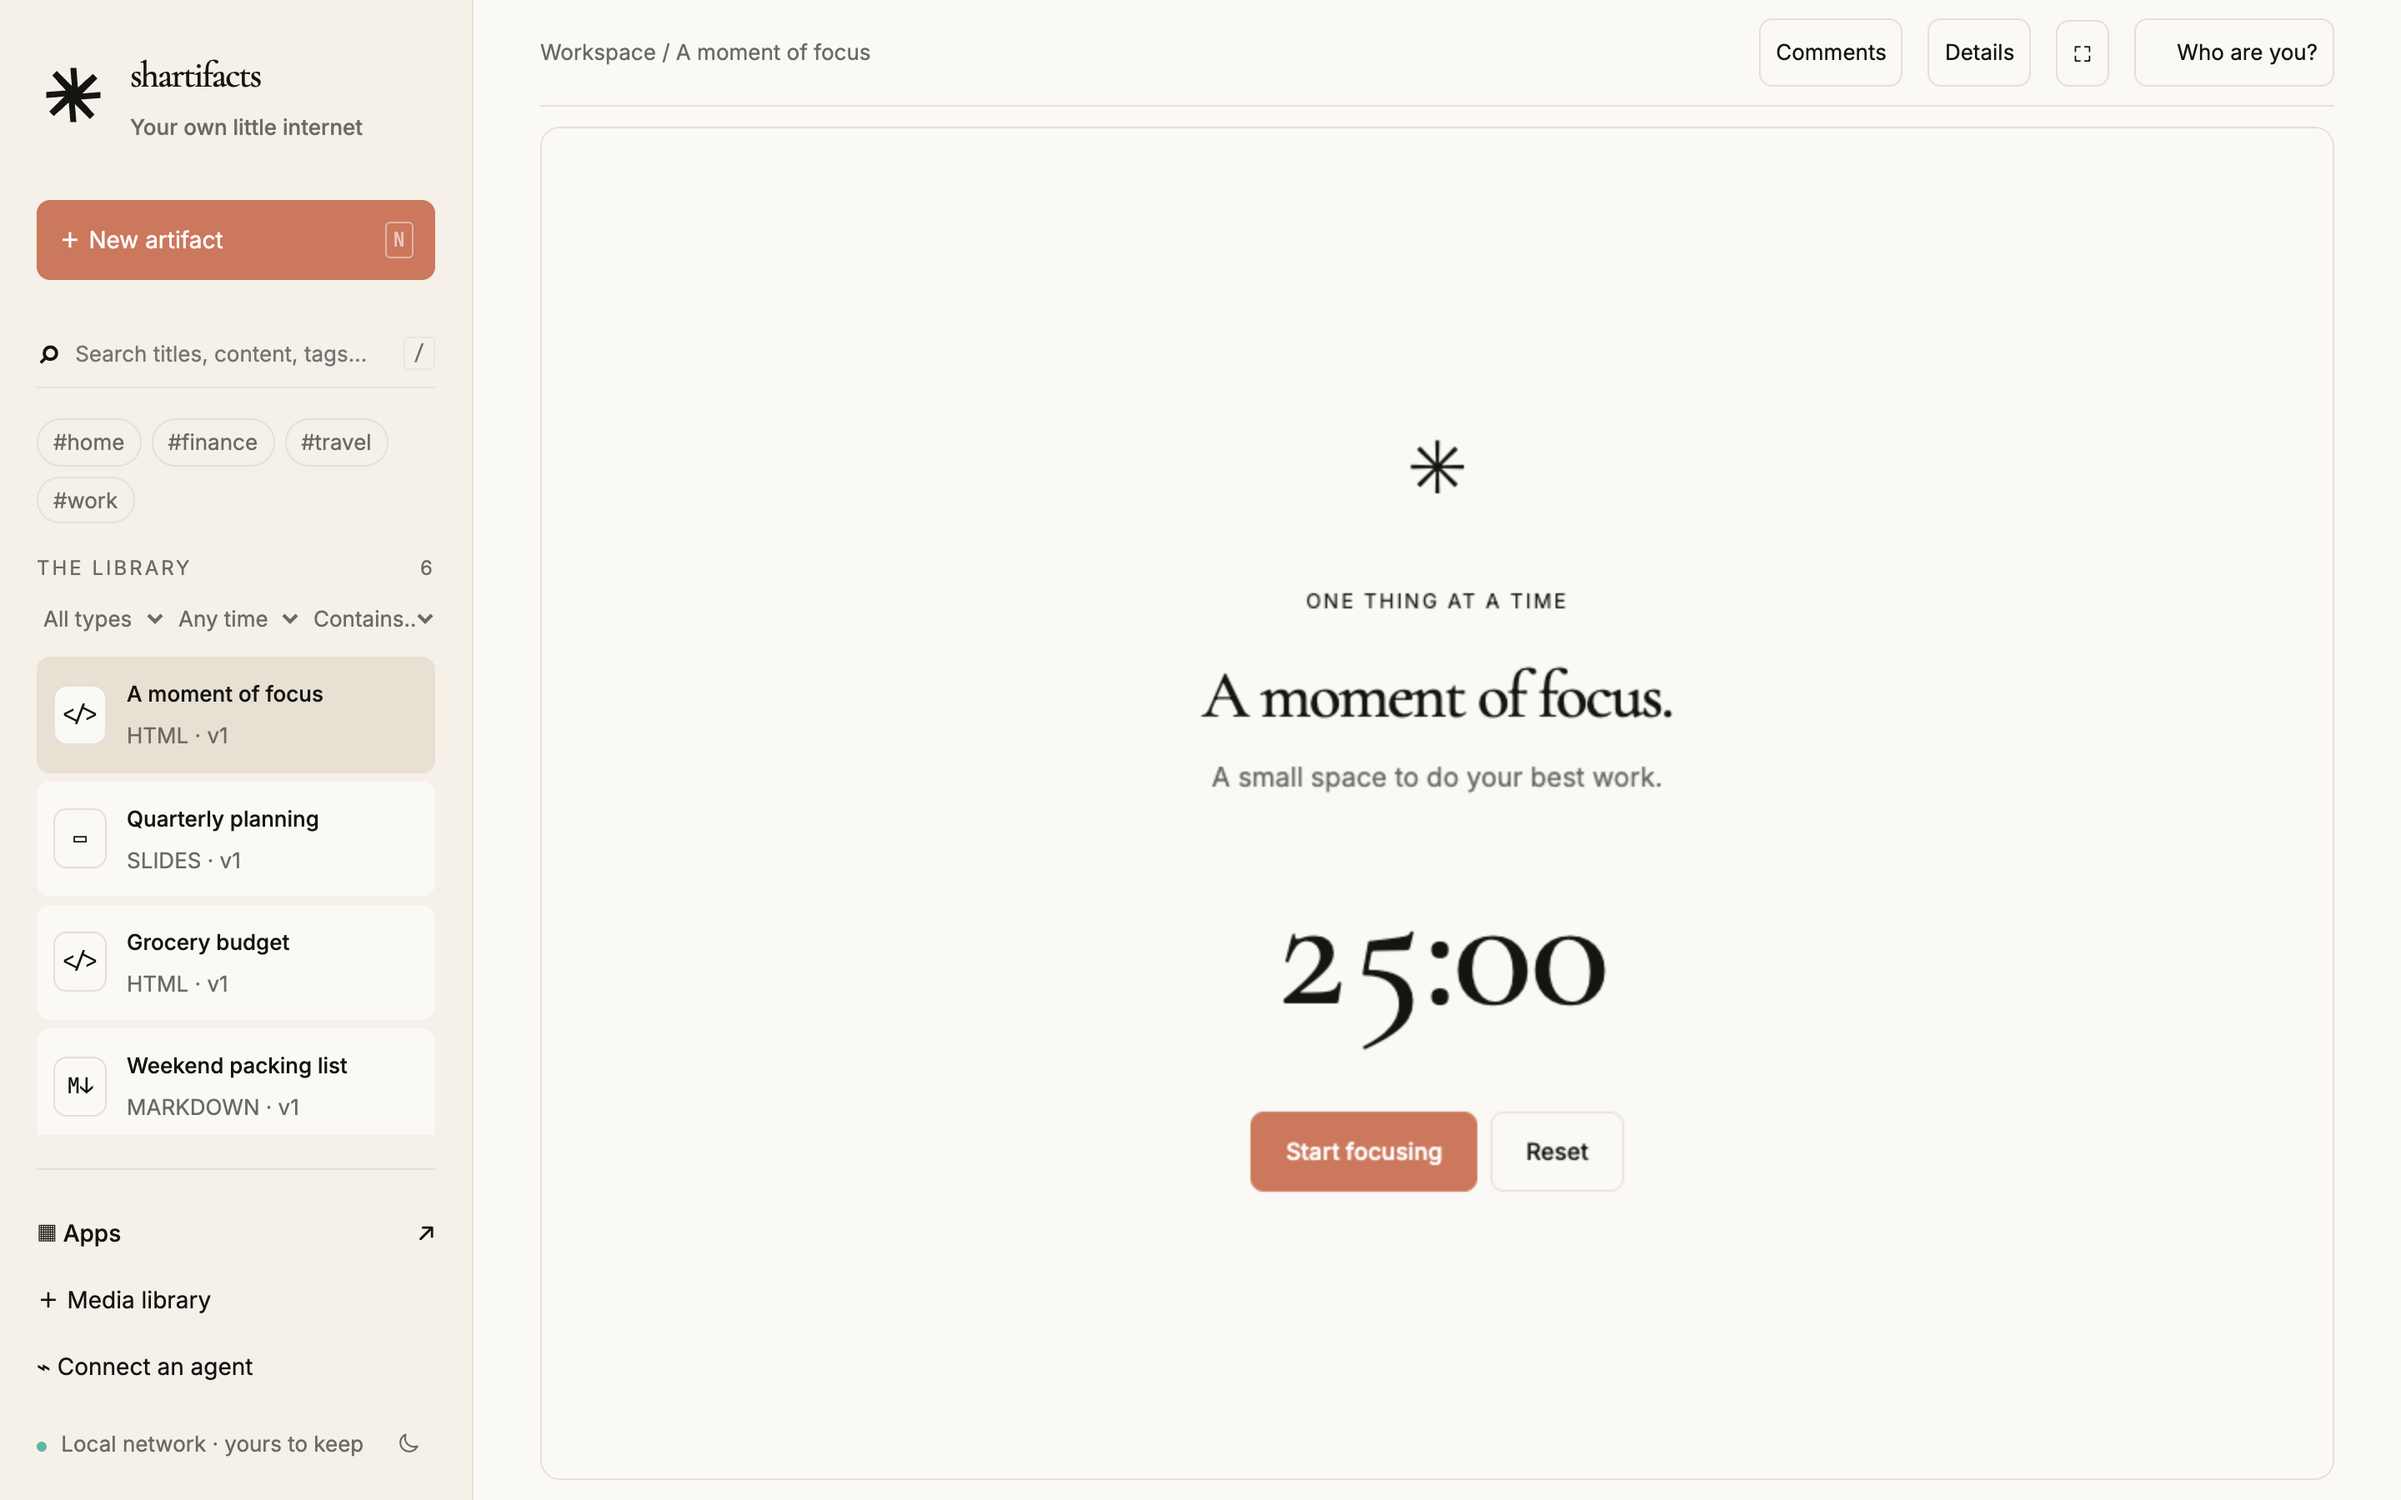
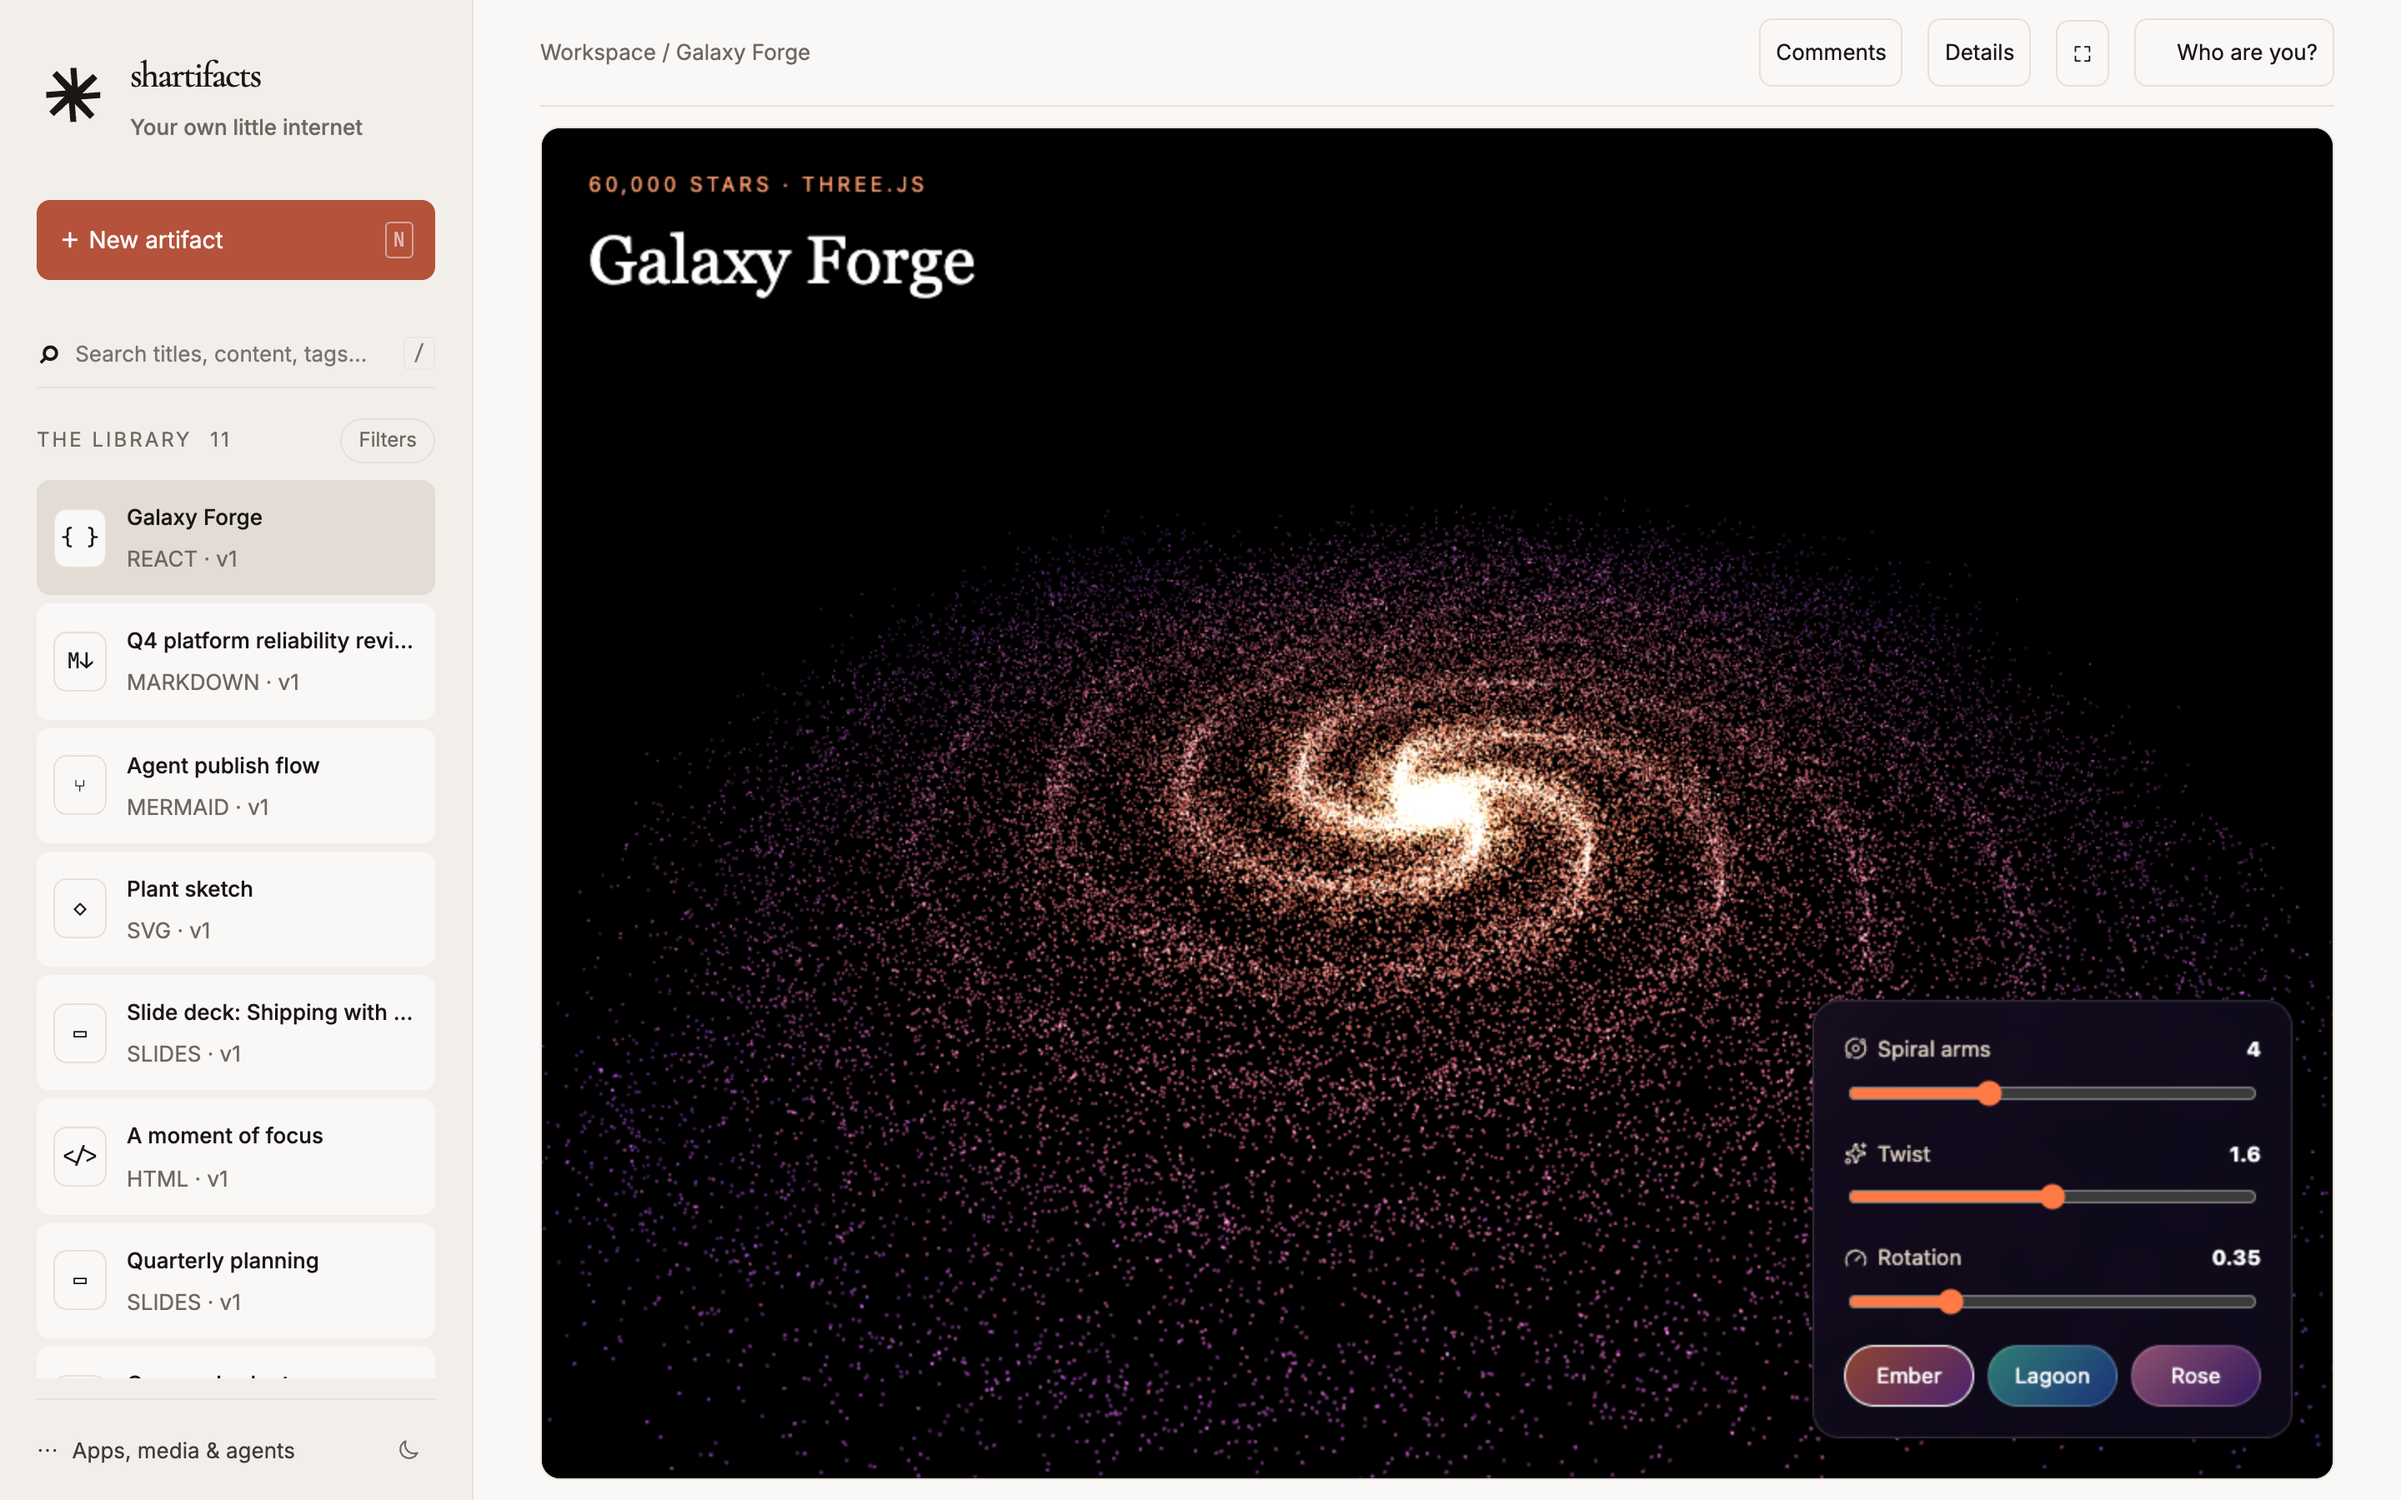
docs: refresh README screenshots with the Terracotta theme
Show a three.js React artifact in the workspace and a React and Go app
open in the apps hub.

diff --git a/README.md b/README.md
@@ -4,7 +4,7 @@
 
 shartifacts is a small server you run once (on a home server, a NAS, a VPS or your own laptop) that gives your coding agents a place to put what they build: interactive HTML and React artifacts, documents, slide decks, diagrams, and full-stack apps with their own backend. Agents connect over MCP. You open what they made in a browser on any of your devices, change it, keep every version, and, if you want, share a read-only link with anyone.
 
-![The artifacts workspace](docs/images/workspace.png)
+![An interactive three.js galaxy, a React artifact open in the workspace](docs/images/workspace.png)
 
 > [!IMPORTANT]
 > **This is an opinionated personal project, not a product.** I built shartifacts for my own setup (a home server, a tailnet, a few coding agents, and a handful of public share links) and I maintain it for that use case only. It's public so you can borrow from it, not because it aims to suit everyone.
@@ -35,6 +35,8 @@ Three reasonable ways to use this repo, in order of how much I'd suggest them:
 
 - **Made for agents.** A built-in MCP server lets Claude Code, Codex, Cursor and other agents create, edit, search and comment on artifacts and deploy apps. Artifacts written for Claude run unchanged: the same React libraries, shadcn/ui, Tailwind, `window.storage` and `claude.use(...)` capabilities.
 - **Apps that run.** Full-stack micro frontends: a React/TypeScript frontend with a Go (or prebuilt Rust) backend and its own data, deployed as versions you can preview and roll back, each open in a tab.
+
+![The apps hub with Pixel Wall, a React and Go app, open in a tab](docs/images/apps.png)
 - **Private by default.** No cloud, no telemetry, no CDNs. It works offline. The workspace answers only your own network and tailnet, and an optional owner password, with a revocable token per agent, keeps out the people and devices on it you don't trust.
 - **Share when you want to.** Give it a hostname of your own and it serves read-only artifact links and public app links there, and nothing else.
 - **One process, one folder.** A single Go binary (or two small containers) keeps everything as plain files in one data folder you back up.
